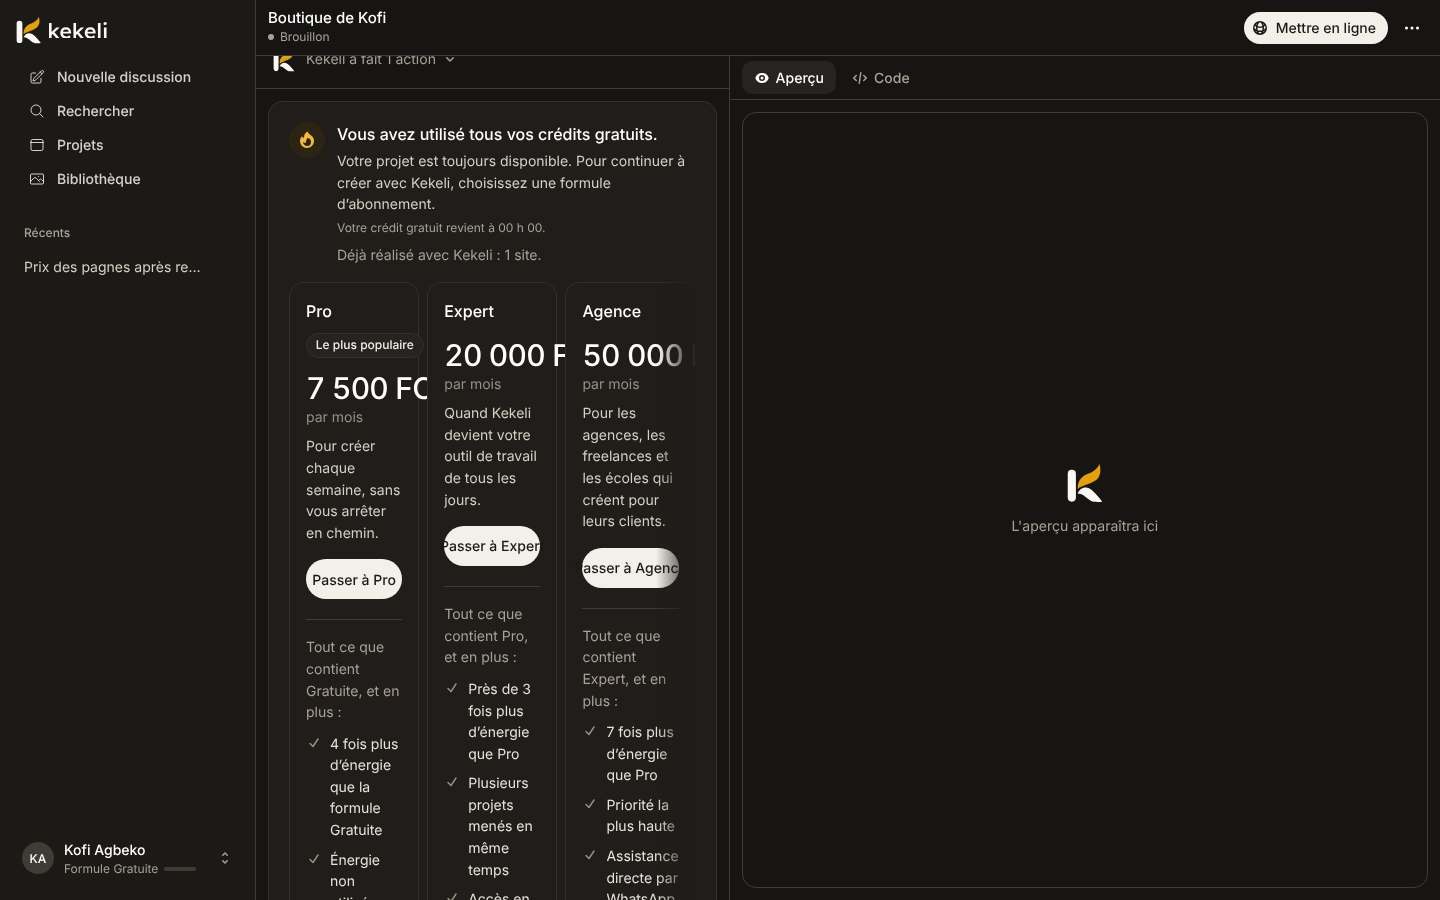
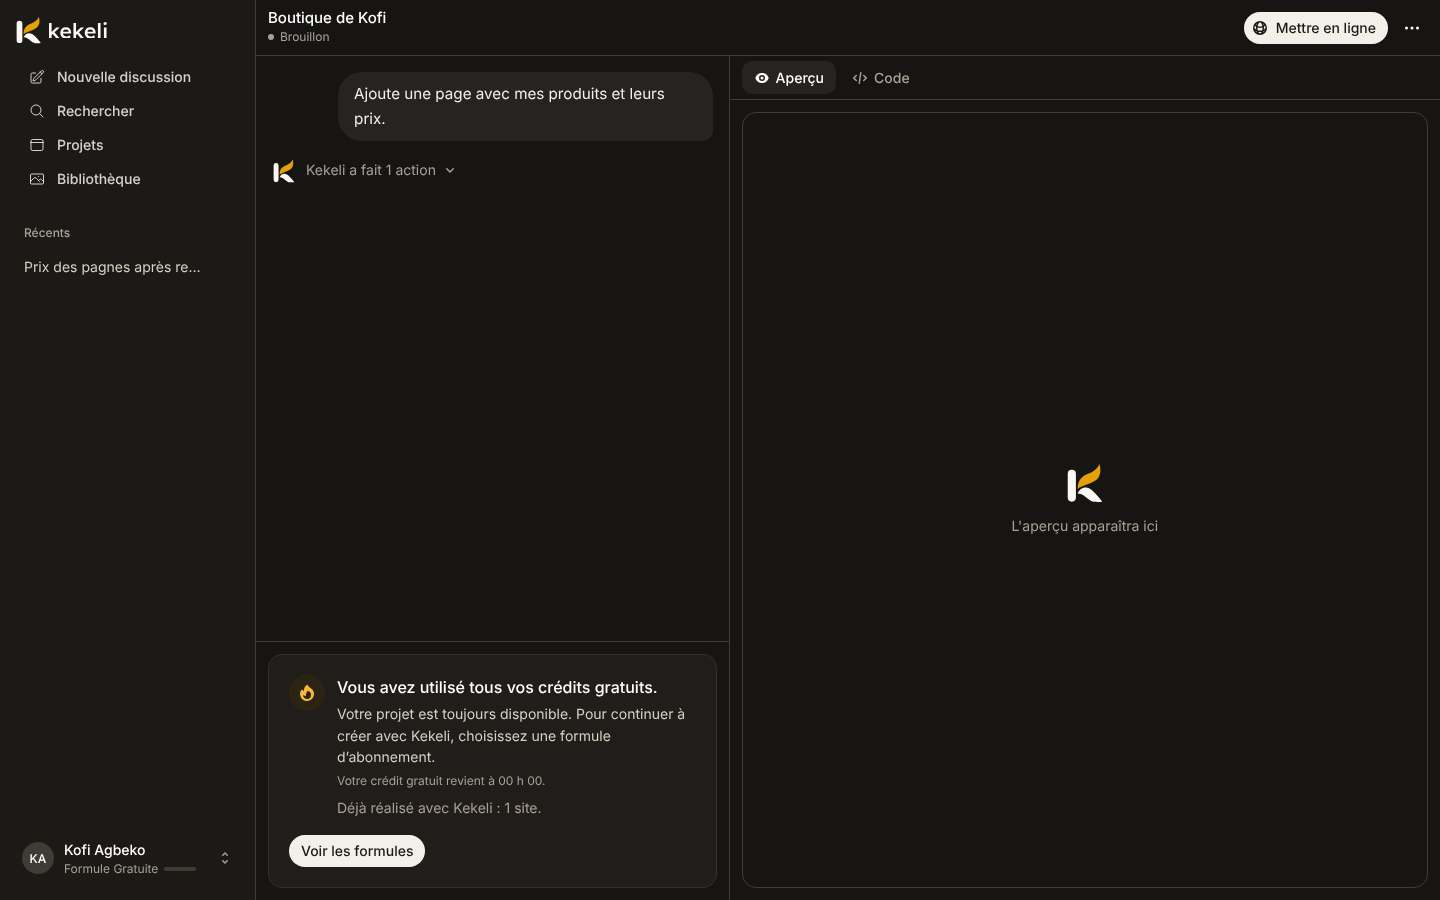
Carte des crédits gratuits utilisés : un seul bouton « Voir les formules » (numéro 62)
Comme Claude et ChatGPT : la carte garde le titre, le texte, l'heure de
retour du crédit et « Déjà réalisé avec Kekeli », avec un seul bouton
« Voir les formules » vers la page des formules. Les trois cartes de
formules sont retirées (elles étaient écrasées dans la colonne de
discussion sur ordinateur). Tests adaptés, captures de cette carte
refaites, CLAUDE.md, docs/plan.md et REPRISE.md à jour.

Claude-Session: https://claude.ai/code/session_01RGr6UX8am1og6wvFkyaMtj

Changed region(s): [[0.1875, 0.3422, 0.4688, 1.0], [0.1875, 0.0622, 0.4688, 0.3111]]

diff --git a/resources/views/components/credit-exhausted.blade.php b/resources/views/components/credit-exhausted.blade.php
@@ -2,12 +2,10 @@
 {{--
     Crédits gratuits utilisés (décision du porteur du projet, 14 novembre 2026, comme Lovable et Manus) : une seule
     expérience pour tous, seul le crédit change. Une carte sobre dit simplement que le projet reste disponible, montre ce
-    que le client a déjà réalisé avec Kekeli et présente les formules avec leur crédit. Rien n'est effacé.
+    que le client a déjà réalisé avec Kekeli et mène aux formules par un seul bouton, comme Claude et ChatGPT (les cartes des
+    formules restent sur leur page : dans la colonne de discussion, elles étaient écrasées). Rien n'est effacé.
 --}}
 @php
-    // Les mêmes cartes que la page des formules (App\Billing\PlanCards), seulement les formules payantes publiées.
-    $paid = array_filter(app(\App\Billing\PlanCards::class)->all(), fn ($card) => ! $card['free']);
-    $inDollars = ($pays = $user->countryDetails()) !== null && ! str_contains((string) ($pays['currency'] ?? ''), 'FCFA');
     $plural = \App\Models\Project::typeLabels();
     $projects = $user->projects()->get(['id', 'kind', 'document_type', 'is_application', 'is_agent', 'is_automation'])->reject->isChat();
     $made = $projects->groupBy->typeKey()
@@ -29,18 +27,7 @@
         </div>
     </div>
 
-    @if ($paid !== [])
-        {{-- Une rangée qui défile sur téléphone (fondu sur le bord), trois colonnes sur ordinateur. --}}
-        <div class="kekeli-defile -mx-4 flex snap-x scroll-px-4 gap-2 overflow-x-auto px-4 pb-1 sm:scroll-px-0 [scrollbar-width:none] sm:mx-0 sm:grid sm:grid-cols-3 sm:px-0 [&::-webkit-scrollbar]:hidden"
-             x-data="{ debut: false, suite: false, voir() { this.debut = $el.scrollLeft > 4; this.suite = $el.scrollLeft + $el.clientWidth < $el.scrollWidth - 4 } }"
-             x-init="$nextTick(() => voir())" x-on:scroll.passive="voir()" x-on:resize.window="voir()" x-bind:data-debut="debut" x-bind:data-suite="suite" data-credit-plans>
-            @foreach ($paid as $key => $card)
-                <x-plan-card :card="$card" :in-dollars="$inDollars" :href="route('payments.create', $key)" compact class="w-64 shrink-0 snap-start sm:w-auto" data-credit-plan="{{ $key }}" />
-            @endforeach
-        </div>
-    @endif
-
     <div>
-        <flux:button variant="primary" size="sm" :href="route('plans')" wire:navigate data-see-plans>{{ __('Choose a formula') }}</flux:button>
+        <flux:button variant="primary" size="sm" :href="route('plans')" wire:navigate data-see-plans>{{ __('See the formulas') }}</flux:button>
     </div>
 </div>

diff --git a/tests/Feature/ModelRouterTest.php b/tests/Feature/ModelRouterTest.php
@@ -218,9 +218,13 @@ class ModelRouterTest extends TestCase
             ->assertSee('Votre projet est toujours disponible. Pour continuer à créer avec Kekeli, choisissez une formule d’abonnement.')
             ->assertSee('2 sites')
             ->assertSee('1 document')
-            ->assertSee('data-credit-plan="pro"', false)
-            ->assertSee('7 500 FCFA')
-            ->assertSee('Choisir une formule')
+            // Comme Claude et ChatGPT : un seul bouton vers la page des formules, sans les cartes des formules.
+            ->assertSee('Voir les formules')
+            ->assertSee('href="'.route('plans').'"', false)
+            ->assertDontSee('data-credit-plan', false)
+            ->assertDontSee('data-plan="pro"', false)
+            ->assertDontSee('7 500 FCFA')
+            ->assertDontSee('Choisir une formule')
             ->assertDontSee('Kekeli Pro');
         $this->assertModelExists($site);
     }

diff --git a/tests/Feature/ConsumptionTest.php b/tests/Feature/ConsumptionTest.php
@@ -102,7 +102,8 @@ class ConsumptionTest extends TestCase
             ->assertSee('Vous avez utilisé tous vos crédits gratuits.')
             ->assertSee('Votre crédit gratuit revient à 00 h 00.')
             ->assertDontSee('Vous ne voulez pas attendre')
-            ->assertSee('Choisir une formule')
+            ->assertSee('Voir les formules')
+            ->assertDontSee('data-credit-plan', false)
             ->assertDontSee('wire:submit="send"', false);
 
         Volt::actingAs($user)->test('projects.show', ['project' => $project])

diff --git a/REPRISE.md b/REPRISE.md
@@ -309,6 +309,7 @@ Détails : `docs/plan.md`, partie 29.6.
 
 ## Nouveaux modèles : test, choix automatique, Standard et Pro (14 novembre 2026)
 
+- Finition du 14 novembre 2026 : la carte « crédits gratuits utilisés » n'affiche plus les cartes des formules (écrasées sur ordinateur) ; un seul bouton « Voir les formules », comme Claude et ChatGPT.
 - **Dernière partie terminée : 4 (toutes).** Partie 4 : captures `docs/captures/modeles.md` (administration, carte « crédits gratuits utilisés », réponses avec les modèles économiques et de qualité, sites du banc), CLAUDE.md, `docs/plan.md` partie 26.26, `docs/couts.md`, `docs/coarena.md` (plusieurs comptes, message de confirmation conseillé). Partie 3 : routeur (`app/Agent/ModelRouter.php`, réglages `model_routes`, `model_providers`, `coarena_multi_accounts`, `coarena_disabled_keys`), une seule expérience pour tous (mêmes modèles de qualité, économie seulement sous 15 % de crédit ; le mode Pro un moment ajouté a été retiré à la demande du porteur du projet), Coarena dans le Runner (`runner/src/coarena.js` : registre des 11 clés, compte de chaque clé, basculement entre comptes ACTIVÉ par décision du porteur du projet avec interrupteur, erreurs classées, statistiques ; premier répondant, rédaction des documents, passerelle de l'agent), Administration → Modèles (`admin/models`), confidentialité (Coarena nommé). Partie 2 : banc de 7 tâches vérifiées par le code sur 9 modèles (`runner/scripts/banc-coarena.mjs`, `runner/mesures/modeles-coarena.md`) ; 0,73 $ de crédits Coarena, 0 $ OpenAI ; Claude indisponible chez Coarena jusqu'au 1er décembre 2026 (non testé, dans aucune route). Partie 1 : `docs/coarena.md`.
 - Suivant : pull request, fusion quand GitHub est vert, puis arrêt. Ensuite, avec l'accord du porteur du projet : montant du crédit gratuit et des formules (coûts mesurés dans `docs/couts.md`), passage de Claude au banc le 1er décembre 2026.
 
@@ -331,4 +332,5 @@ Détails : `docs/plan.md`, partie 29.6.
 
 - Branche `claude/dreamy-brahmagupta-dpaaxs`, repartie de `main`. Quatre parties, faites dans l'ordre, poussées après chacune.
 - Décision du porteur du projet (14 novembre 2026) : pour les formules payantes, qui ont leur énergie par mois, le report se fait **au mois suivant** (au plus un mois d'énergie, donc au plus le double).
+- Finition du 14 novembre 2026 : la carte « crédits gratuits utilisés » n'affiche plus les cartes des formules (écrasées sur ordinateur) ; un seul bouton « Voir les formules », comme Claude et ChatGPT.
 - **Dernière partie terminée : 4 (toutes).** Partie 4 : captures avant et après (`docs/captures/accueil-abonnements.md` ; base `/home/user/kekeli-captures.sqlite` remplie par `scripts/preparer-captures-design.php` puis `scripts/preparer-captures-abonnements.php`, site après sur le port 8123, copie de `main` sur le port 8124, puis `node scripts/captures-accueil-abonnements.js <adresse> docs/captures/accueil-abonnements/apres|avant`) ; CLAUDE.md, `docs/plan.md` partie 26.28, `docs/couts.md`. Ordre final des suggestions demandé par le porteur du projet : Site web, Application, Agent IA, Automatisation, Présentation, Image, Vidéo, Document. Crédit OpenAI : 0 $ (plafond 0,10 $). Suivant : pull request, fusion quand GitHub est vert, puis arrêt ; à décider ensuite par le porteur du projet : les multiplicateurs (`docs/couts.md`). Partie 3 : cartes des formules comme Claude, ChatGPT, Lovable, Bolt.new, Manus et Cursor (`app/Billing/PlanCards.php`, composant `components/plan-card.blade.php`) : nom, prix, « pour qui », bouton, « Tout ce que contient …, et en plus : », « Le plus populaire » sur Pro ; mêmes cartes sur la page des formules, la carte « crédits gratuits utilisés » (rangée qui défile sur téléphone), Réglages → Formule (avec l’énergie reportée) et le paiement ; plus de « sites vitrines » ni de « sites avec base de données » dans les formules ; conditions d’utilisation à jour. Partie 2 : avantages construits (`app/Billing/PlanPerks.php`) : report de l'énergie au mois suivant (`Energy::carriedOverFcfa`, `limitFcfa`, seulement si le mois précédent a été payé pour la même formule, au plus un mois d'énergie) ; priorité Agence, Expert, Pro, Gratuite dans la file d'attente (`AgentPlaces::ahead`, une formule finie compte comme gratuite) et pour les nouveaux essais quand les fournisseurs sont occupés (2 à 5 minutes) ; avant-première (`early_access_tools`, outils du premier répondant retirés pour les autres formules, aussi dans le Runner) ; « Assistance WhatsApp » pour Agence (« Nous contacter » et Réglages → Formule) ; projets menés en même temps (`parallel_runs` : 1 pour Gratuite et Pro, 3 pour Expert, 5 pour Agence) ; réglages dans Administration → Réglages ; multiplicateurs réels et propositions dans `docs/couts.md`. Tous les outils restent dans la Gratuite (mise en ligne, mémoire, GitHub ; connecteurs : 2 actifs à la fois). Partie 1 : accueil comme Claude, ChatGPT et Bolt (zone « Que voulez-vous créer ? », suggestions Site web, Application, Agent IA (ajouté à la demande du porteur du projet, à la place de Document, qui suit), Document, Présentation, Image, Vidéo avec une icône au trait fin ; un toucher écrit le début de la demande et place le curseur à la fin, sans rien envoyer ; une seule ligne qui défile sur téléphone, avec le fondu sur le bord) ; anciennes suggestions et phrase « site web pour… » retirées des traductions.

diff --git a/CLAUDE.md b/CLAUDE.md
@@ -107,7 +107,7 @@ kekeli.dev, à acheter avant la mise en ligne.
 ### Accueil et avantages des formules (décidés et construits le 14 novembre 2026, `docs/plan.md`, partie 26.28)
 - **Accueil** : zone « Décrivez votre idée… » (depuis le 14 novembre 2026, à la demande du porteur du projet : la zone ne répète plus le titre « Que voulez-vous créer aujourd’hui ? » ; seule exception à la règle « jamais d'impératif » du premier écran) et suggestions **Site web, Application, Agent IA, Automatisation, Présentation, Image, Vidéo, Document** (dans cet ordre, le document en dernier : décision du porteur du projet), petite icône sans ambre ; un toucher écrit le début de la demande et place le curseur, sans rien envoyer ; une seule ligne qui défile sur téléphone. **Jamais de suggestion qui enferme Kekeli dans les sites web.**
 - **Tous les outils dans la Gratuite** ; les payantes ajoutent seulement de la capacité et des avantages (`app/Billing/PlanPerks.php`, réglables par formule dans Administration → Réglages) : **report de l'énergie non utilisée au mois suivant** (Pro, Expert, Agence ; au plus un mois d'énergie ; seulement après un mois payé de la même formule ; décision du porteur du projet), **priorité** Agence, Expert, Pro, Gratuite (file d'attente et nouveaux essais), **avant-première** (Expert et Agence, `early_access_tools`), **Assistance WhatsApp** (Agence), **projets menés en même temps** (`parallel_runs` : 1, 1, 3, 5).
-- **Cartes des formules** (`app/Billing/PlanCards.php`, `components/plan-card.blade.php`) : mêmes textes sur la page des formules, la carte des crédits utilisés, Réglages → Formule et le paiement ; « Le plus populaire » sur Pro ; **multiplicateurs toujours lus dans les réglages et vrais** (aujourd'hui 4 fois, près de 3 fois, 7 fois ; propositions dans `docs/couts.md`, à décider par le porteur du projet).
+- **Cartes des formules** (`app/Billing/PlanCards.php`, `components/plan-card.blade.php`) : mêmes textes sur la page des formules, Réglages → Formule et le paiement ; la carte « crédits gratuits utilisés » n'a **pas** de cartes de formules (comme Claude et ChatGPT, décision du 14 novembre 2026) : titre, texte, heure de retour du crédit, « Déjà réalisé avec Kekeli » et un seul bouton « Voir les formules » ; « Le plus populaire » sur Pro ; **multiplicateurs toujours lus dans les réglages et vrais** (aujourd'hui 4 fois, près de 3 fois, 7 fois ; propositions dans `docs/couts.md`, à décider par le porteur du projet).
 
 ### Formules et énergie (décidées le 9 novembre 2026)
 - **Gratuite** : environ 1 site vitrine tous les 2 jours (30 FCFA d'énergie par jour), avec un **plafond total par jour pour l'ensemble des utilisateurs gratuits** (1 000 FCFA depuis le 12 novembre 2026, réglable) et **5 minutes d'attente avant la pause** de l'ordinateur (10 pour les payants) ; quand il est atteint, message « Kekeli se recharge en ce moment… » avec l'heure de recharge, et alerte pour l'administrateur.

diff --git a/docs/plan.md b/docs/plan.md
@@ -1809,7 +1809,7 @@ Captures avant et après : `docs/captures/accueil-abonnements.md`.
 5. **Projets menés en même temps** (`parallel_runs` : 1 pour Gratuite et Pro, 3 pour Expert, 5 pour Agence) : promis sur la carte Expert, il n'existait pas ; construit : une demande en trop attend son tour (« Kekeli termine d'abord votre autre projet… »), sans rien perdre ; les questions n'attendent jamais.
 6. **Multiplicateurs** lus dans les réglages, toujours vrais (`PlanPerks::ratioText`) : Pro 4,44 fois la Gratuite (affiché « 4 »), Expert 2,75 fois Pro (« près de 3 »), Agence 7 fois Pro. Le « 10 fois » demandé n'est pas vrai aujourd'hui : non affiché ; valeurs rondes proposées et leur coût estimé dans `docs/couts.md`.
 
-**Cartes des formules** (`app/Billing/PlanCards.php`, composant `components/plan-card.blade.php`), une seule source pour la page des formules, la carte « crédits gratuits utilisés », Réglages → Formule et le paiement : nom, prix, « pour qui », bouton (« Commencer gratuitement », « Passer à Pro »…), puis « Tout ce que contient …, et en plus : » ; « Le plus populaire » sur Pro. Plus de « sites vitrines » ni de « sites avec base de données » dans les formules. Conditions d'utilisation à jour (avantages et report).
+**Cartes des formules** (`app/Billing/PlanCards.php`, composant `components/plan-card.blade.php`), une seule source pour la page des formules, Réglages → Formule et le paiement (la carte « crédits gratuits utilisés » les a montrées un moment, mais elles étaient écrasées dans la colonne de discussion sur ordinateur : depuis le 14 novembre 2026, comme Claude et ChatGPT, elle n'a plus qu'un seul bouton « Voir les formules ») : nom, prix, « pour qui », bouton (« Commencer gratuitement », « Passer à Pro »…), puis « Tout ce que contient …, et en plus : » ; « Le plus populaire » sur Pro. Plus de « sites vitrines » ni de « sites avec base de données » dans les formules. Conditions d'utilisation à jour (avantages et report).
 
 ## 27. Création d'applications comme Claude Code (12 novembre 2026)
 

diff --git a/docs/captures/accueil-abonnements.md b/docs/captures/accueil-abonnements.md
@@ -80,7 +80,7 @@ Ce qu'il faut regarder :
 
 ![Avant](accueil-abonnements/avant/ordinateur-sombre-04-formules.jpg) ![Après](accueil-abonnements/apres/ordinateur-sombre-04-formules.jpg)
 
-## Carte « crédits gratuits utilisés »
+## Carte « crédits gratuits utilisés » (un seul bouton « Voir les formules », comme Claude et ChatGPT)
 
 **Téléphone, clair** — avant puis après
 
